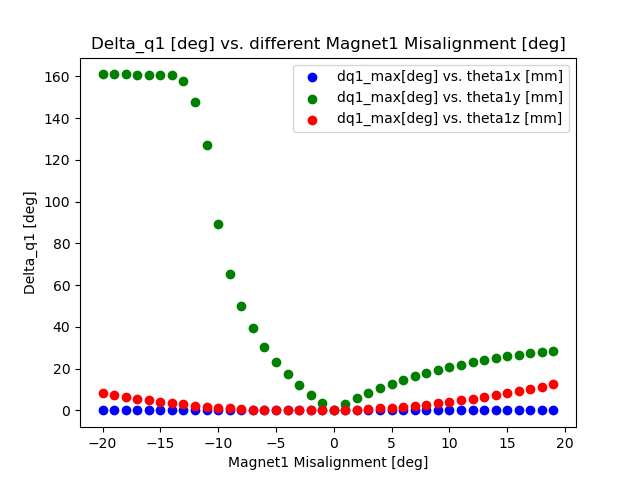
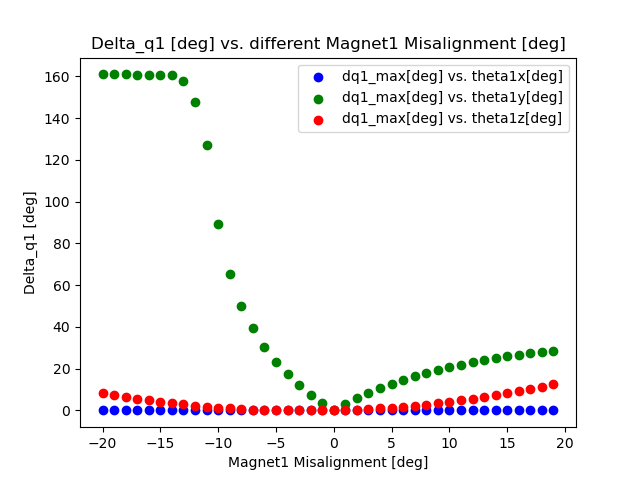
For the fucking christ sake I had to fix the images again

Changed region(s): [[0.4688, 0.125, 0.875, 0.2812]]

diff --git a/Magbot Simulation/data_processing/overlay.py b/Magbot Simulation/data_processing/overlay.py
@@ -6,6 +6,7 @@ import os
 mag1_folders = ['results_t1x', 'results_t1y', 'results_t1z']
 mag2_folders = ['results_t2x', 'results_t2y', 'results_t2z']
 png_names = ['t1_dq1_max', 't1_dq2_max', 't2_dq1_max', 't2_dq2_max']
+unit = '[deg]'
 x_labels = ['Magnet1 Misalignment [deg]', 'Magnet2 Misalignment [deg]']
 y_labels = ['Delta_q1 [deg]', 'Delta_q2 [deg]']
 colors = ['blue', 'green', 'red']
@@ -15,8 +16,8 @@ root_path = '/mnt/newstorage/summer_project'
 cy1 = 6 #column for dq1_max
 cy2 = 8 #column for dq2_max
 
-#cy1, cy2 = cy1+1, cy2+1
-#png_names = ['t1_dq1_mean', 't1_dq2_mean', 't2_dq1_mean', 't2_dq2_mean']
+cy1, cy2 = cy1+1, cy2+1
+png_names = ['t1_dq1_mean', 't1_dq2_mean', 't2_dq1_mean', 't2_dq2_mean']
 
 #process the mag_1 dq1
 for i in range(len(mag1_folders)):
@@ -26,7 +27,7 @@ for i in range(len(mag1_folders)):
     x = data.iloc[:, i]
     y = data.iloc[:, cy1]
 
-    plt.scatter(x, y, color = colors[i], label = f'{data.columns[cy1]} vs. {data.columns[i]} [mm]')
+    plt.scatter(x, y, color = colors[i], label = f'{data.columns[cy1]} vs. {data.columns[i]}{unit}')
 
 plt.xlabel(x_labels[0])
 plt.ylabel(y_labels[0])
@@ -46,7 +47,7 @@ for i in range(len(mag2_folders)):
     x = data.iloc[:, i]
     y = data.iloc[:, cy2]
 
-    plt.scatter(x, y, color = colors[i], label = f'{data.columns[cy1]} vs. {data.columns[i]} [mm]')
+    plt.scatter(x, y, color = colors[i], label = f'{data.columns[cy1]} vs. {data.columns[i]}{unit}')
 
 plt.xlabel(x_labels[0])
 plt.ylabel(y_labels[1])
@@ -66,7 +67,7 @@ for i in range(len(mag1_folders), len(mag2_folders)+len(mag1_folders)):
     x = data.iloc[:, i]
     y = data.iloc[:, cy1]
 
-    plt.scatter(x, y, color = colors[i-len(mag1_folders)], label = f'{data.columns[cy1]} vs. {data.columns[i]} [mm]')
+    plt.scatter(x, y, color = colors[i-len(mag1_folders)], label = f'{data.columns[cy1]} vs. {data.columns[i]}{unit}')
 
 plt.xlabel(x_labels[1])
 plt.ylabel(y_labels[0])
@@ -86,7 +87,7 @@ for i in range(len(mag1_folders), len(mag2_folders)+len(mag1_folders)):
     x = data.iloc[:, i]
     y = data.iloc[:, cy2]
 
-    plt.scatter(x, y, color = colors[i-len(mag1_folders)], label = f'{data.columns[cy1]} vs. {data.columns[i]} [mm]')
+    plt.scatter(x, y, color = colors[i-len(mag1_folders)], label = f'{data.columns[cy1]} vs. {data.columns[i]}{unit}')
 
 plt.xlabel(x_labels[1])
 plt.ylabel(y_labels[1])
